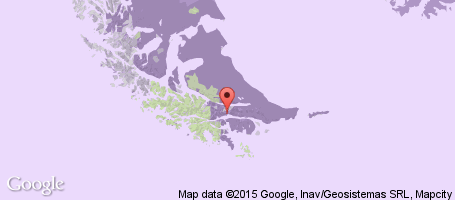
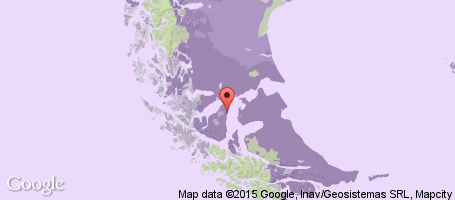
Added recap and Patagonia post, updated location.

Changed region(s): [[0.1538, 0.0, 0.8615, 1.0], [0.8308, 0.0, 1.0, 0.09], [0.9846, 0.3, 1.0, 0.36]]

diff --git a/app/blog/20150203-monthly-recap-january-2015.md b/app/blog/20150203-monthly-recap-january-2015.md
@@ -1,0 +1,98 @@
+---
+pages      : all
+slug       : monthly-recap-january-2015
+title      : "Monthly Recap: January 2015"
+date       : !!str 2015-02-03T22:00:00+08:00
+categories : [ Budgeting ]
+tags       : [ Money, Statistics ]
+geography  :
+  - id        : 3469034
+    name      : Federative Republic of Brazil
+    coord     : [ -55, -10 ]
+    continent : { code: SA, name: &continent3469034 South America }
+    country   : { code: BR, name: &country3469034 Brazil }
+    transport : flight
+  - id        : 3865483
+    name      : Argentine Republic
+    coord     : [ -64, -34 ]
+    continent : { code: SA, name: &continent3865483 South America }
+    country   : { code: AR, name: &country3865483 Argentina }
+    transport : ferry
+  - id        : 3439705
+    name      : Oriental Republic of Uruguay
+    coord     : [ -56, -33 ]
+    continent : { code: SA, name: &continent3439705 South America }
+    country   : { code: UY, name: &country3439705 Uruguay }
+    transport : flight
+  - id        : 3841798
+    name      : Patagonia
+    coord     : [ -68, -44 ]
+    continent : { code: SA, name: &continent3841798 South America }
+    country   : { code: AR, name: &country3841798 Argentina }
+    transport : bus
+  - id        : 3965407
+    name      : Patagonia
+    coord     : [ -72, -52.41667 ]
+    continent : { code: SA, name: &continent3965407 South America }
+    country   : { code: CL, name: &country3965407 Chile }
+    transport : flight
+continents:
+  - *continent3469034
+countries:
+  - *country3469034
+  - *country3865483
+  - *country3439705
+  - *country3841798
+  - *country3965407
+archives:
+  - !!str ''
+  - !!str 2015
+  - !!str 2015-02
+---
+
+In January 2015, we visited four countries: Brazil, Argentina, Uruguay, and Chile. From [China](/blog/monthly-recap-december-2014.html) we were meant to land in São Paulo, but [ended up in Rio de Janeiro](/blog/the-long-way-south.html) instead, where we mainly [enjoyed Brazilian food](/blog/delicious-foods-of-brazil.html). The highlight of Brazil was without a doubt [Costa Verde](/blog/brazils-costa-verde.html), although the [tour of Rio de Janeiro](/blog/three-days-in-rio.html) was very nice too.
+
+After [getting our card cloned](/blog/a-week-of-problems.html) in Rio, we went to the [magnificent Iguazú Falls](/blog/the-complete-picture-of-iguazu-falls.html), after we headed down for some [tango & wine](/blog/tango-and-wine.html) in Buenos Aires. From there, we took a [ferry to Uruguay](/blog/the-quaint-town-of-colonia.html). We ended the month by flying south towards the end of the world: Patagonia. There, we spent time in both Argentina and Chile.
+
+The overview below lists the expenses in Brazil, Argentina, and Uruguay. For Argentina, the expenses up until February 4 are included, as this gives the full picture of the expenses. For Chile, we will cover all expenses in next months’ recap.
+
+**The Good**
+* We didn’t spent much the first two days in Brazil, as we got stuck in Rio de Janeiro. The hotel the airline put us in provided and excellent look into typical Brazilian foods, however, which was a welcome surprise.
+* As our card got cloned, we had to strictly limit our spending to avoid running out of money for things we really wanted to do. In the end, this lead to a lot of extra savings.
+* Due to the poor state of the Argentinan economy, we were able to get around 50% more Argentinan pesos on the black market than the official exchange rate indicates. More on this in a later post (it is not as scary as it sounds).
+
+**The Bad**
+* We were stuck with two weeks of laundry when arriving in Ilha Grande. Unfortunately, it was not cheap to do laundry on the island: it cost us a whopping 25$.
+* As our card got cloned, we had to resort to a card which has hefty ATM fees, spending a total of 78$ on fees on five (albeit large) withdrawals.
+* In Argentina, restaurants often add a 2$ to 3$ mandatory *cubierto* charge. This charge is added for using the restaurants’ silverware. If you get a drink, the charge is made twice as a glass is counted as additional silverware. This happened once, but cost us 7$.
+
+A detailed list of expenses per country is listed below. The amounts per person are based on our two-person journey. Flights are listed separately (and are not included in the countries’ budget) as we booked these in advance.
+
+## Flights
+* Beijing to São Paulo: **$1,283** ($641.50 pp) on [Etihad Airways](http://etihad.com/),
+* Rio de Janeiro to Foz do Iguaçu: **$171** ($85.50 pp) on [GOL](http://voegol.com.br/),
+* Puerto Iguazú to Buenos Aires *(part of flight below)*,
+* Buenos Aires to El Calafate: **$734** ($367 pp) on [LAN Airlines](http://www.lan.com/).
+
+## Brazil
+* Days: **14**,
+* Budget: **$1,960** ($70 pppd),
+* Expenses: **$1,316** ($47 pppd),
+* Additional visa costs: **$160** (Herta).
+
+<span class="img-thumbnail">![Expenses Breakdown](/images/budget-brazil.png)</span>
+
+## Argentina & Uruguay
+*Note (1): Uruguay accepts the Argentinan Peso and U.S. Dollar, therefore we decided to add the money spent during our one-day trip to Uruguay to the Argentina budget.*
+
+*Note (2): the miscellaneous expenses yield a large, negative number. This is due to the black market exchange rate of U.S. Dollars in Argentina. More on this later.*
+
+* Days: **12**,
+* Budget: **$1,440** ($60 pppd),
+* Expenses: **$1,422** ($59 pppd),
+* Additional visa costs: **$160** (Herta).
+
+<span class="img-thumbnail">![Expenses Breakdown](/images/budget-argentina.png)</span>
+
+## Next Month
+The first few days of February we will spend in Chilean Patagonia, before heading back north. We will spent more time in Chile there, and depending on how our plans enfold we might go to Argentina a bit more before crossing into Bolivia. For our one-year anniversary (February 12th), we have something special planned – you will see.

diff --git a/app/blog/20150202-trekking-in-argentinan-patagonia.md b/app/blog/20150202-trekking-in-argentinan-patagonia.md
@@ -1,0 +1,51 @@
+---
+pages      : all
+slug       : trekking-in-argentinan-patagonia
+title      : Trekking in Argentinan Patagonia
+date       : !!str 2015-02-02T23:00:00-03:00
+categories : [ ]
+tags       : [ Adventure, Glacier, Hiking, Mountains, Patagonia, Sightseeing, Trekking ]
+geography  :
+  - id        : 6690180
+    name      : El Chaltén
+    coord     : [ -72.88605, -49.3299 ]
+    continent : { code: SA, name: &continent6690180 South America }
+    country   : { code: AR, name: &country6690180 Argentina }
+    transport : overland
+  - id        : 3858677
+    name      : El Calafate
+    coord     : [ -72.27682, -50.34075 ]
+    continent : { code: SA, name: &continent3858677 South America }
+    country   : { code: AR, name: &country3858677 Argentina }
+    transport : overland
+  - id        : 3833367
+    name      : Ushuaia
+    coord     : [ -68.3, -54.8 ]
+    continent : { code: SA, name: &continent3833367 South America }
+    country   : { code: AR, name: &country3833367 Argentina }
+    transport : flight
+continents:
+  - *continent6690180
+countries:
+  - *country6690180
+archives:
+  - !!str ''
+  - !!str 2015
+  - !!str 2015-02
+map: http://maps.googleapis.com/maps/api/staticmap?markers=size%3Amid%7C-49.3299%2C-72.88605%7C-50.34075%2C-72.27682%7C-54.8%2C-68.3&path=color%3A0xFF0000FF%7Cweight%3A3%7C-49.3299%2C-72.88605%7C-50.34075%2C-72.27682&path=color%3A0xFF0000FF%7Cweight%3A3%7C-50.34075%2C-72.27682%7C-54.8%2C-68.3&size=480x270&style=feature%3Alandscape%7Celement%3Ageometry.fill%7Chue%3A0x2E0854%7Clightness%3A-2%7Cgamma%3A0.25&style=feature%3Awater%7Celement%3Ageometry.fill%7Ccolor%3A0xEBDAFC&style=feature%3Aadministrative%7Celement%3Ageometry.fill%7Cvisibility%3Aoff&style=element%3Ageometry.stroke%7Cvisibility%3Aoff&zoom=
+---
+
+Patagonia: a near uninhabited area in southern Argentina and Chile. A destination which had been on our list for quite a while, so needless to say we were very excited to leave Buenos Aires and head south. We flew into El Calafate and took a bus north to El Chaltén upon arrival.
+
+## Fitz Roy
+The small town of El Chaltén is also known as the “Trekking Capital of the World,” and it certainly delivered. We only spent one day here so we opted for the popular trail leading up to the Fitz Roy mountain. We had heard the peak is often covered in clouds for days, disappointing many hikers in their attempt to see what El Chaltén is all about.
+
+Luckily, on the day of our hike the sun was shining and skies were clear. During the four-hour hike to the Laguna Capri lake the views of Fitz Roy were amazing, as were the views along the trek almost creating a surreal feeling.
+
+## Perito Moreno Glacier
+Back in El Calafate, a slightly bigger town than El Chaltén, we visited the Perito Moreno Glacier. About two hours away, there are frequent buses bringing you to the glacier. The glacier is massive, and can be viewed from different angles thanks to the many walkways. The blue walktrail, however, did not loop around as we found ourselves walking on the road back to the park entrance. Therefore, it is recommended to spent most of your time at the balconies along the walkways in order to experience huge pieces of ice breaking and dropping into Lago Argentino. We spent about three hours, which was plenty of time, and two hours more waiting for the bus to bring us back to El Calafate. In hindsight, having a car would have given us a bit more flexibility, and costs would be about even (buses are good, but not that cheap) for 2+ people.
+
+## Beagle Channel & Martillo Island
+After El Calafate we spent three days in Chilean Patagonia before crossing back into Argentina. This time, Ushuaia, the southernmost city in the world, was our destination.
+
+TODO

diff --git a/app/blog/20150102-monthly-recap-december-2014.md b/app/blog/20150102-monthly-recap-december-2014.md
@@ -66,8 +66,8 @@ In Vietnam we overspent (deliberately, as we had some money to spare from Novemb
 A detailed list of expenses per country is listed below. The amounts per person are based on our two-person journey. Flights are listed separately (and are not included in the countries’ budget) as we booked these in advance.
 
 ## Flights
-* Ho Chi Minh City to Hanoi *(part of flight below)*.
-* Hanoi to Hong Kong: **$613** ($306.50 pp) on [Vietnam Airlines](http://www.vietnamairlines.com/).
+* Ho Chi Minh City to Hanoi *(part of flight below)*,
+* Hanoi to Hong Kong: **$613** ($306.50 pp) on [Vietnam Airlines](http://www.vietnamairlines.com/),
 * Hong Kong to Shanghai: **$300** ($150 pp) on [Juneyao Airlines](http://www.juneyaoair.com/).
 
 ## Cambodia

diff --git a/app/blog/20150106-transportation-in-asia.md b/app/blog/20150106-transportation-in-asia.md
@@ -5,7 +5,6 @@ title      : Transportation in Asia
 date       : !!str 2015-01-06T21:00:00+08:00
 categories : [ ]
 tags       : [ Bus, Car, Ferry, Metro, Minivan, Subway, Taxi, Train, Tram ]
-sticky     : 50
 geography  :
   - id        : 1605651
     name      : Kingdom of Thailand

diff --git a/app/blog/20150129-tango-and-wine.md b/app/blog/20150129-tango-and-wine.md
@@ -5,6 +5,7 @@ title      : Tango & Wine
 date       : !!str 2015-01-29T22:30:00-03:00
 categories : [ Day Trips ]
 tags       : [ Sightseeing, Tango, Wine ]
+sticky     : 50
 geography  :
   - id        : 3435910
     name      : Buenos Aires
